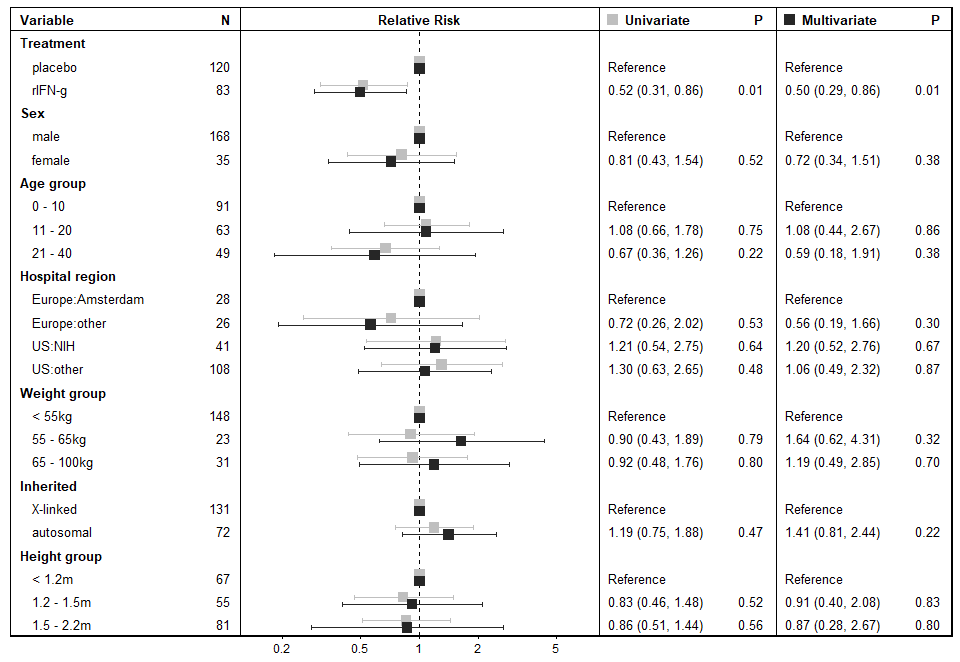
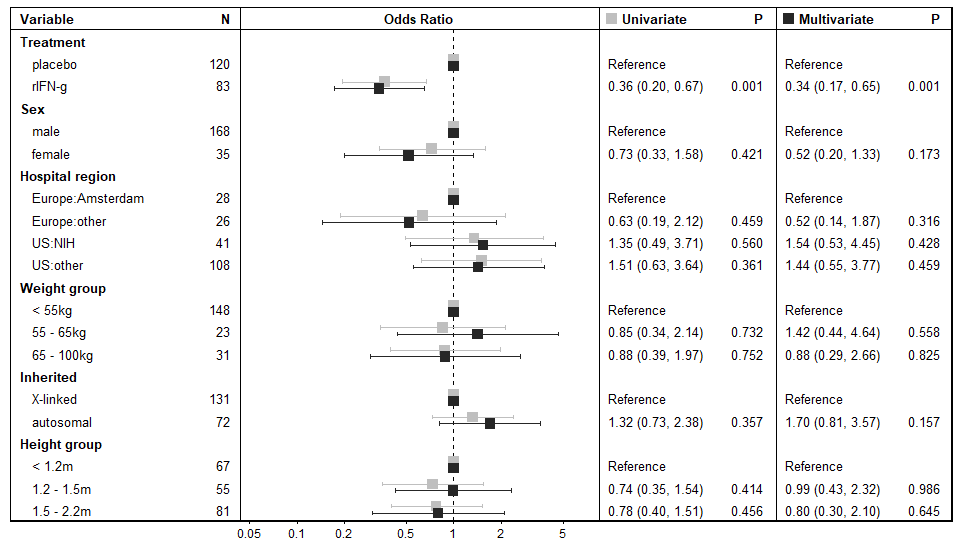
OR

diff --git a/README.md b/README.md
@@ -7,12 +7,12 @@ This package is a modification (with a very limited scope) of the very
 nice package `forestmodel` that is available here:
 [Github](https://github.com/NikNakk/forestmodel)
 
-multiforest will take a dataset and run uni- and multivariate poisson
-regressions on a binary outcome variable. These plots can take time to
-construct manually and one nice thing of using this package is that it
-makes it easy to do compare across sensitivity analyses (like how does
-results change when this group is excluded, or definition of outcome
-variable is changed)
+multiforest will take a dataset and run uni- and multivariate
+poisson/binomial regressions on a binary outcome variable. These plots
+can take time to construct manually and one nice thing of using this
+package is that it makes it easy to do compare across sensitivity
+analyses (like how does results change when this group is excluded, or
+definition of outcome variable is changed)
 
 ## Installation
 
@@ -109,25 +109,25 @@ ggplot object, and therefore normal options of ggplot can be supplied,
 like the labs argument.
 
 ``` r
-mforestmodel(pb, dependent="dead5yr", lim=c(-2.4,2.4), 
-             pala="#1f78b4", palb="#a6cee3", 
+mforestmodel(pb, dependent="dead5yr", lim=c(-2.4,2.4),
+             pala="#2171b5", palb="#9ecae1", 
              #legend_position = c(0.55,0.93), 
              spaces = c(0.015,0.22,0.2,0.005,0.2,0.02),
-             header = c("Group","Patients","RR of death","Univariate","P","Multivariate","P")) + 
-  labs(title="Relative risk of death within 3 years of diagnosis",
-       subtitle="PBC3 - randomized clinical trial between 1 Jan. 1983 and 1 Jan. 1987 ",
-       caption="Source: PCB3 from R package pec")
+             header = c("Group","Patients","RR of death (95% CI)","Univariate","P.val","Multivariate","P.val")) + 
+  labs(title="Relative risk of death within 5 years of diagnosis",
+       subtitle="PBC3 - randomized clinical trial between 1 Jan. 1983 and 1 Jan. 1987")
 ```
 
 ![](man/figures/README-unnamed-chunk-6-1.png)<!-- -->
 
-Here is another example with some other data
+Here is another example with some other data, and we can switch from
+poisson (RR) to a binomial/logistic model (OR)
 
 ``` r
 data(cgd, package = "survival")
 
 cg <- cgd %>% 
-  select(treat, sex, age, hos.cat, status, weight, inherit, height) %>%
+  select(treat, sex, hos.cat, status, weight, inherit, height) %>%
   mutate(
     hos.cat = as.character(hos.cat),
     weight = case_when(
@@ -137,21 +137,16 @@ cg <- cgd %>%
     height = case_when(
       between(height, 0, 120) ~ "< 1.2m",
       between(height, 120, 150) ~ "1.2 - 1.5m",
-      between(height, 150, 220) ~ "1.5 - 2.2m"),
-    age = case_when(
-      between(age, 0, 10) ~ "0 - 10",
-      between(age, 11, 20) ~ "11 - 20",
-      between(age, 21, 140) ~ "21 - 40"))
+      between(height, 150, 220) ~ "1.5 - 2.2m"))
   
 var_label(cg) <- list(treat = "Treatment",
                       sex = "Sex",
-                      age = "Age group",
                       weight = "Weight group",
                       height = "Height group",
                       hos.cat = "Hospital region",
                       inherit = "Inherited")
 
-mforestmodel(cg, dependent="status", lim=c(-2,2))
+mforestmodel(cg, dependent="status", lim=c(-3,2), est_family = "binomial")
 ```
 
 ![](man/figures/README-unnamed-chunk-7-1.png)<!-- -->
